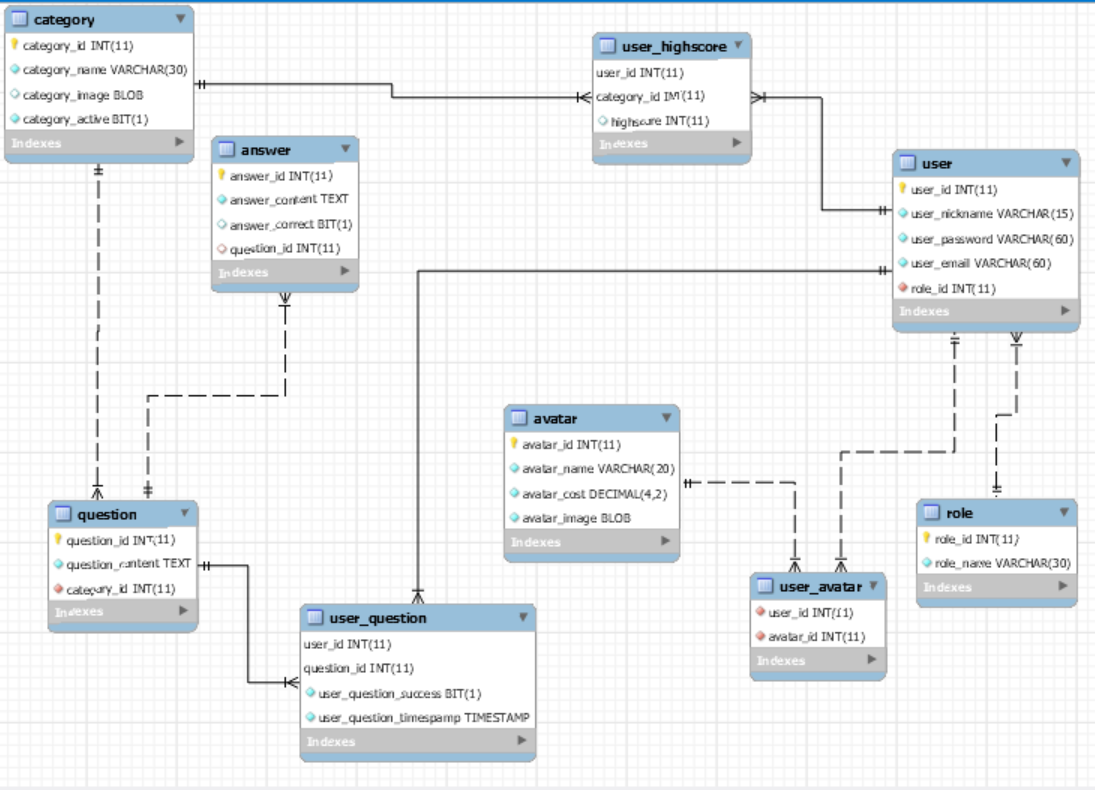
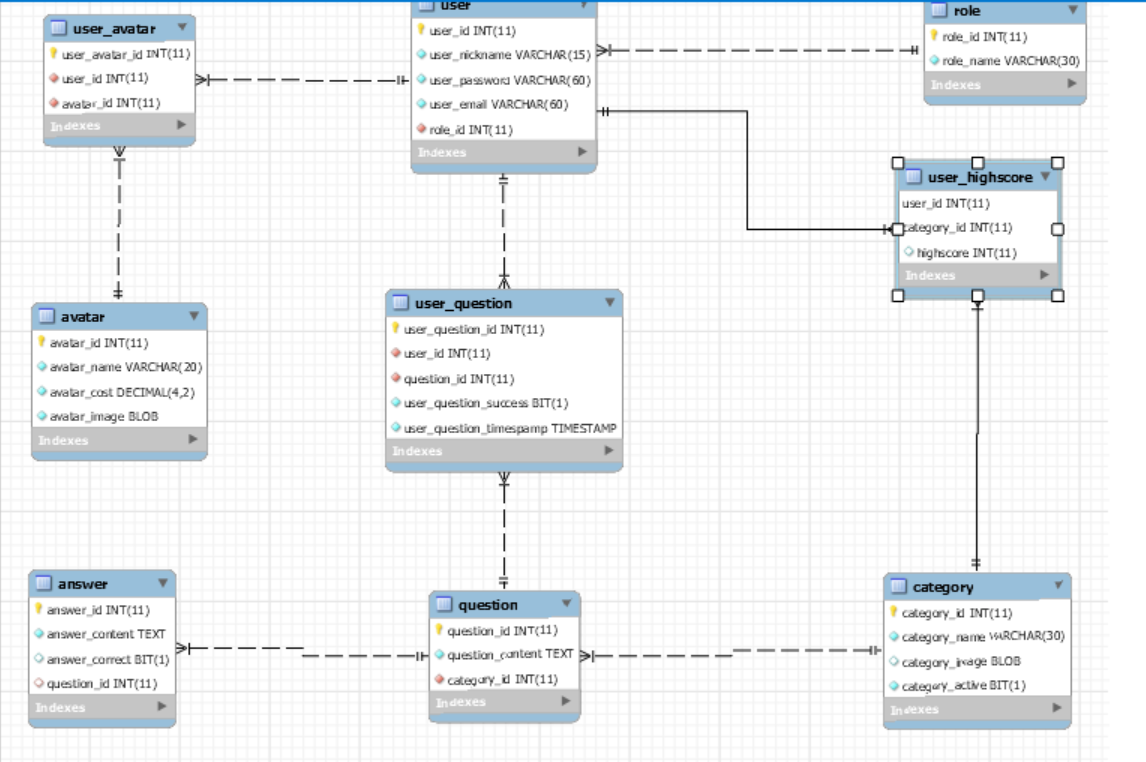
Updated Entities based on database table changes

diff --git a/project/src/main/java/com/game/quizbot/model/UserQuestion.java b/project/src/main/java/com/game/quizbot/model/UserQuestion.java
@@ -5,15 +5,12 @@
  */
 package com.game.quizbot.model;
 
-import org.springframework.format.annotation.DateTimeFormat;
-
 import java.io.Serializable;
-import java.time.LocalDateTime;
 import java.util.Date;
 import javax.persistence.Basic;
 import javax.persistence.Column;
-import javax.persistence.EmbeddedId;
 import javax.persistence.Entity;
+import javax.persistence.Id;
 import javax.persistence.JoinColumn;
 import javax.persistence.ManyToOne;
 import javax.persistence.NamedQueries;
@@ -36,48 +33,46 @@ import javax.xml.bind.annotation.XmlRootElement;
 public class UserQuestion implements Serializable {
 
     private static final long serialVersionUID = 1L;
-    @EmbeddedId
-    protected UserQuestionPK userQuestionPK;
+    @Id
+    @Basic(optional = false)
+    @NotNull
+    @Column(name = "user_question_id")
+    private Integer userQuestionId;
     @Basic(optional = false)
     @NotNull
     @Column(name = "user_question_success")
     private boolean userQuestionSuccess;
     @Basic(optional = false)
     @NotNull
-    @Column(name = "user_question_timestamp")
-//    @Temporal(TemporalType.TIMESTAMP)
-    @DateTimeFormat(iso=DateTimeFormat.ISO.DATE_TIME)
-    private LocalDateTime userQuestionTimestamp;
-    @JoinColumn(name = "question_id", referencedColumnName = "question_id", insertable = false, updatable = false)
+    @Column(name = "user_question_timespamp")
+    @Temporal(TemporalType.TIMESTAMP)
+    private Date userQuestionTimespamp;
+    @JoinColumn(name = "question_id", referencedColumnName = "question_id")
     @ManyToOne(optional = false)
-    private Question question;
-    @JoinColumn(name = "user_id", referencedColumnName = "user_id", insertable = false, updatable = false)
+    private Question questionId;
+    @JoinColumn(name = "user_id", referencedColumnName = "user_id")
     @ManyToOne(optional = false)
-    private User user;
+    private User userId;
 
     public UserQuestion() {
     }
 
-    public UserQuestion(UserQuestionPK userQuestionPK) {
-        this.userQuestionPK = userQuestionPK;
+    public UserQuestion(Integer userQuestionId) {
+        this.userQuestionId = userQuestionId;
     }
 
-    public UserQuestion(UserQuestionPK userQuestionPK, boolean userQuestionSuccess, Date userQuestionTimespamp) {
-        this.userQuestionPK = userQuestionPK;
+    public UserQuestion(Integer userQuestionId, boolean userQuestionSuccess, Date userQuestionTimespamp) {
+        this.userQuestionId = userQuestionId;
         this.userQuestionSuccess = userQuestionSuccess;
-        this.userQuestionTimestamp = userQuestionTimestamp;
+        this.userQuestionTimespamp = userQuestionTimespamp;
     }
 
-    public UserQuestion(int userId, int questionId) {
-        this.userQuestionPK = new UserQuestionPK(userId, questionId);
+    public Integer getUserQuestionId() {
+        return userQuestionId;
     }
 
-    public UserQuestionPK getUserQuestionPK() {
-        return userQuestionPK;
-    }
-
-    public void setUserQuestionPK(UserQuestionPK userQuestionPK) {
-        this.userQuestionPK = userQuestionPK;
+    public void setUserQuestionId(Integer userQuestionId) {
+        this.userQuestionId = userQuestionId;
     }
 
     public boolean getUserQuestionSuccess() {
@@ -88,34 +83,34 @@ public class UserQuestion implements Serializable {
         this.userQuestionSuccess = userQuestionSuccess;
     }
 
-    public LocalDateTime getUserQuestionTimestamp() {
-        return userQuestionTimestamp;
+    public Date getUserQuestionTimespamp() {
+        return userQuestionTimespamp;
     }
 
-    public void setUserQuestionTimestamp(LocalDateTime userQuestionTimestamp) {
-        this.userQuestionTimestamp = userQuestionTimestamp;
+    public void setUserQuestionTimespamp(Date userQuestionTimespamp) {
+        this.userQuestionTimespamp = userQuestionTimespamp;
     }
 
-    public Question getQuestion() {
-        return question;
+    public Question getQuestionId() {
+        return questionId;
     }
 
-    public void setQuestion(Question question) {
-        this.question = question;
+    public void setQuestionId(Question questionId) {
+        this.questionId = questionId;
     }
 
-    public User getUser() {
-        return user;
+    public User getUserId() {
+        return userId;
     }
 
-    public void setUser(User user) {
-        this.user = user;
+    public void setUserId(User userId) {
+        this.userId = userId;
     }
 
     @Override
     public int hashCode() {
         int hash = 0;
-        hash += (userQuestionPK != null ? userQuestionPK.hashCode() : 0);
+        hash += (userQuestionId != null ? userQuestionId.hashCode() : 0);
         return hash;
     }
 
@@ -126,7 +121,7 @@ public class UserQuestion implements Serializable {
             return false;
         }
         UserQuestion other = (UserQuestion) object;
-        if ((this.userQuestionPK == null && other.userQuestionPK != null) || (this.userQuestionPK != null && !this.userQuestionPK.equals(other.userQuestionPK))) {
+        if ((this.userQuestionId == null && other.userQuestionId != null) || (this.userQuestionId != null && !this.userQuestionId.equals(other.userQuestionId))) {
             return false;
         }
         return true;
@@ -134,7 +129,7 @@ public class UserQuestion implements Serializable {
 
     @Override
     public String toString() {
-        return "com.game.quizbot.model.UserQuestion[ userQuestionPK=" + userQuestionPK + " ]";
+        return "com.game.quizbot.model.UserQuestion[ userQuestionId=" + userQuestionId + " ]";
     }
     
 }

diff --git a/project/src/main/java/com/game/quizbot/model/UserAvatar.java b/project/src/main/java/com/game/quizbot/model/UserAvatar.java
@@ -1,0 +1,101 @@
+/*
+ * To change this license header, choose License Headers in Project Properties.
+ * To change this template file, choose Tools | Templates
+ * and open the template in the editor.
+ */
+package com.game.quizbot.model;
+
+import java.io.Serializable;
+import javax.persistence.Basic;
+import javax.persistence.Column;
+import javax.persistence.Entity;
+import javax.persistence.Id;
+import javax.persistence.JoinColumn;
+import javax.persistence.ManyToOne;
+import javax.persistence.NamedQueries;
+import javax.persistence.NamedQuery;
+import javax.persistence.Table;
+import javax.validation.constraints.NotNull;
+import javax.xml.bind.annotation.XmlRootElement;
+
+/**
+ *
+ * @author omiro
+ */
+@Entity
+@Table(name = "user_avatar")
+@XmlRootElement
+@NamedQueries({
+    @NamedQuery(name = "UserAvatar.findAll", query = "SELECT u FROM UserAvatar u")})
+public class UserAvatar implements Serializable {
+
+    private static final long serialVersionUID = 1L;
+    @Id
+    @Basic(optional = false)
+    @NotNull
+    @Column(name = "user_avatar_id")
+    private Integer userAvatarId;
+    @JoinColumn(name = "avatar_id", referencedColumnName = "avatar_id")
+    @ManyToOne(optional = false)
+    private Avatar avatarId;
+    @JoinColumn(name = "user_id", referencedColumnName = "user_id")
+    @ManyToOne(optional = false)
+    private User userId;
+
+    public UserAvatar() {
+    }
+
+    public UserAvatar(Integer userAvatarId) {
+        this.userAvatarId = userAvatarId;
+    }
+
+    public Integer getUserAvatarId() {
+        return userAvatarId;
+    }
+
+    public void setUserAvatarId(Integer userAvatarId) {
+        this.userAvatarId = userAvatarId;
+    }
+
+    public Avatar getAvatarId() {
+        return avatarId;
+    }
+
+    public void setAvatarId(Avatar avatarId) {
+        this.avatarId = avatarId;
+    }
+
+    public User getUserId() {
+        return userId;
+    }
+
+    public void setUserId(User userId) {
+        this.userId = userId;
+    }
+
+    @Override
+    public int hashCode() {
+        int hash = 0;
+        hash += (userAvatarId != null ? userAvatarId.hashCode() : 0);
+        return hash;
+    }
+
+    @Override
+    public boolean equals(Object object) {
+        // TODO: Warning - this method won't work in the case the id fields are not set
+        if (!(object instanceof UserAvatar)) {
+            return false;
+        }
+        UserAvatar other = (UserAvatar) object;
+        if ((this.userAvatarId == null && other.userAvatarId != null) || (this.userAvatarId != null && !this.userAvatarId.equals(other.userAvatarId))) {
+            return false;
+        }
+        return true;
+    }
+
+    @Override
+    public String toString() {
+        return "com.game.quizbot.model.UserAvatar[ userAvatarId=" + userAvatarId + " ]";
+    }
+    
+}

diff --git a/project/src/main/java/com/game/quizbot/model/User.java b/project/src/main/java/com/game/quizbot/model/User.java
@@ -15,8 +15,6 @@ import javax.persistence.GeneratedValue;
 import javax.persistence.GenerationType;
 import javax.persistence.Id;
 import javax.persistence.JoinColumn;
-import javax.persistence.JoinTable;
-import javax.persistence.ManyToMany;
 import javax.persistence.ManyToOne;
 import javax.persistence.NamedQueries;
 import javax.persistence.NamedQuery;
@@ -59,17 +57,14 @@ public class User implements Serializable {
     @Size(min = 1, max = 60)
     @Column(name = "user_email")
     private String userEmail;
-    @JoinTable(name = "user_avatar", joinColumns = {
-        @JoinColumn(name = "user_id", referencedColumnName = "user_id")}, inverseJoinColumns = {
-        @JoinColumn(name = "avatar_id", referencedColumnName = "avatar_id")})
-    @ManyToMany
-    private Collection<Avatar> avatarCollection;
+    @OneToMany(cascade = CascadeType.ALL, mappedBy = "userId")
+    private Collection<UserAvatar> userAvatarCollection;
     @OneToMany(cascade = CascadeType.ALL, mappedBy = "user")
     private Collection<UserHighscore> userHighscoreCollection;
     @JoinColumn(name = "role_id", referencedColumnName = "role_id")
     @ManyToOne(optional = false)
     private Role roleId;
-    @OneToMany(cascade = CascadeType.ALL, mappedBy = "user")
+    @OneToMany(cascade = CascadeType.ALL, mappedBy = "userId")
     private Collection<UserQuestion> userQuestionCollection;
 
     public User() {
@@ -119,12 +114,12 @@ public class User implements Serializable {
     }
 
     @XmlTransient
-    public Collection<Avatar> getAvatarCollection() {
-        return avatarCollection;
+    public Collection<UserAvatar> getUserAvatarCollection() {
+        return userAvatarCollection;
     }
 
-    public void setAvatarCollection(Collection<Avatar> avatarCollection) {
-        this.avatarCollection = avatarCollection;
+    public void setUserAvatarCollection(Collection<UserAvatar> userAvatarCollection) {
+        this.userAvatarCollection = userAvatarCollection;
     }
 
     @XmlTransient

diff --git a/project/src/main/java/com/game/quizbot/model/Avatar.java b/project/src/main/java/com/game/quizbot/model/Avatar.java
@@ -9,15 +9,16 @@ import java.io.Serializable;
 import java.math.BigDecimal;
 import java.util.Collection;
 import javax.persistence.Basic;
+import javax.persistence.CascadeType;
 import javax.persistence.Column;
 import javax.persistence.Entity;
 import javax.persistence.GeneratedValue;
 import javax.persistence.GenerationType;
 import javax.persistence.Id;
 import javax.persistence.Lob;
-import javax.persistence.ManyToMany;
 import javax.persistence.NamedQueries;
 import javax.persistence.NamedQuery;
+import javax.persistence.OneToMany;
 import javax.persistence.Table;
 import javax.validation.constraints.NotNull;
 import javax.validation.constraints.Size;
@@ -56,8 +57,8 @@ public class Avatar implements Serializable {
     @Lob
     @Column(name = "avatar_image")
     private byte[] avatarImage;
-    @ManyToMany(mappedBy = "avatarCollection")
-    private Collection<User> userCollection;
+    @OneToMany(cascade = CascadeType.ALL, mappedBy = "avatarId")
+    private Collection<UserAvatar> userAvatarCollection;
 
     public Avatar() {
     }
@@ -106,12 +107,12 @@ public class Avatar implements Serializable {
     }
 
     @XmlTransient
-    public Collection<User> getUserCollection() {
-        return userCollection;
+    public Collection<UserAvatar> getUserAvatarCollection() {
+        return userAvatarCollection;
     }
 
-    public void setUserCollection(Collection<User> userCollection) {
-        this.userCollection = userCollection;
+    public void setUserAvatarCollection(Collection<UserAvatar> userAvatarCollection) {
+        this.userAvatarCollection = userAvatarCollection;
     }
 
     @Override

diff --git a/project/src/main/java/com/game/quizbot/model/Answer.java b/project/src/main/java/com/game/quizbot/model/Answer.java
@@ -6,7 +6,18 @@
 package com.game.quizbot.model;
 
 import java.io.Serializable;
-import javax.persistence.*;
+import javax.persistence.Basic;
+import javax.persistence.Column;
+import javax.persistence.Entity;
+import javax.persistence.GeneratedValue;
+import javax.persistence.GenerationType;
+import javax.persistence.Id;
+import javax.persistence.JoinColumn;
+import javax.persistence.Lob;
+import javax.persistence.ManyToOne;
+import javax.persistence.NamedQueries;
+import javax.persistence.NamedQuery;
+import javax.persistence.Table;
 import javax.validation.constraints.NotNull;
 import javax.validation.constraints.Size;
 import javax.xml.bind.annotation.XmlRootElement;

diff --git a/project/src/main/java/com/game/quizbot/model/Question.java b/project/src/main/java/com/game/quizbot/model/Question.java
@@ -54,7 +54,7 @@ public class Question implements Serializable {
     @JoinColumn(name = "category_id", referencedColumnName = "category_id")
     @ManyToOne(optional = false)
     private Category categoryId;
-    @OneToMany(cascade = CascadeType.ALL, mappedBy = "question")
+    @OneToMany(cascade = CascadeType.ALL, mappedBy = "questionId")
     private Collection<UserQuestion> userQuestionCollection;
 
     public Question() {
